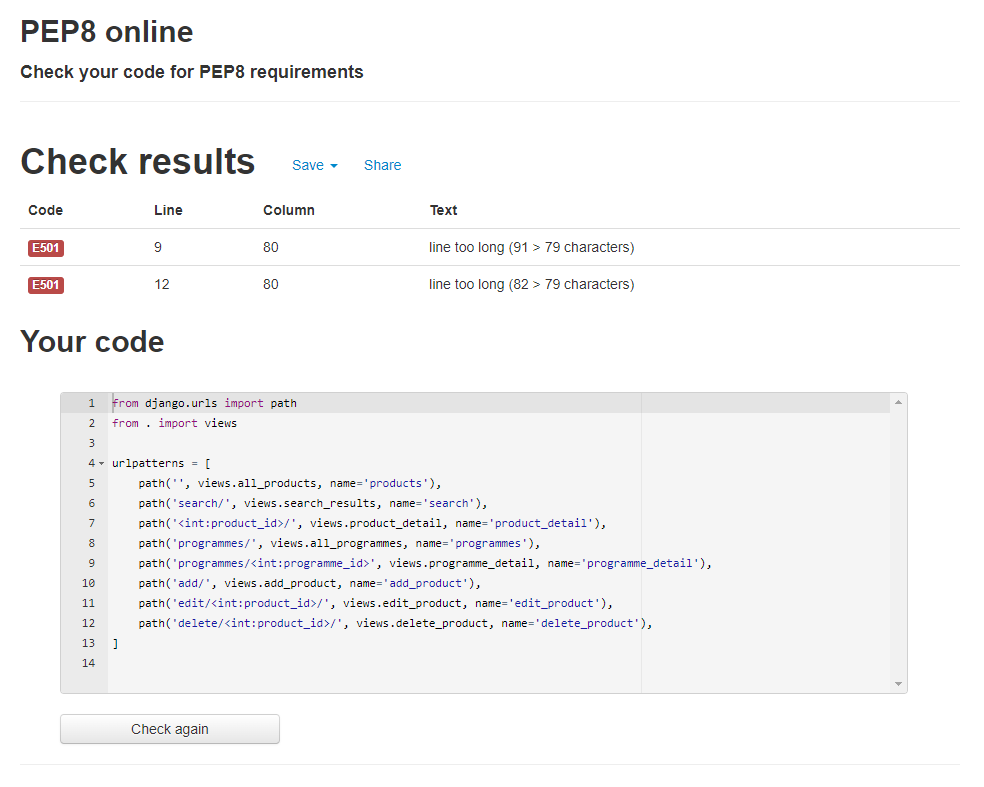
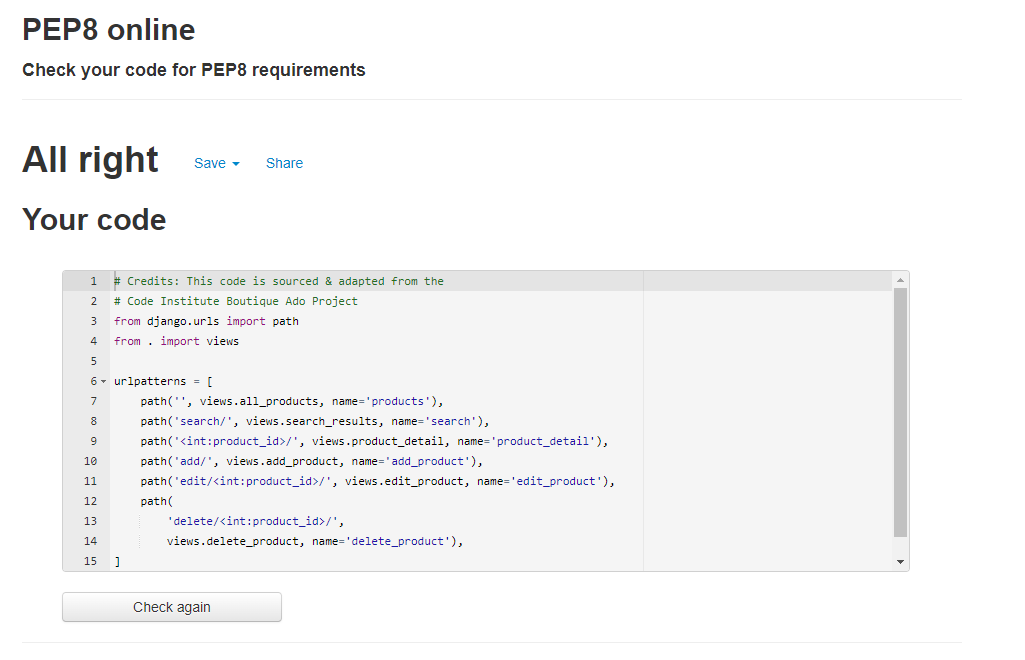
Add PEP8 screenshots to Products application

diff --git a/TESTING.md b/TESTING.md
@@ -286,11 +286,11 @@ No. |Python File | PEP8 Status | Screenshot
 ------------- |------------- | ------------- | ------------ 
 1 | [admin.py](products/admin.py) | No issues | ![link](readme/testing/pep8/products-admin.png)
 2 | [apps.py](products/apps.py) | No issues | ![link](readme/testing/pep8/products-apps.png)
-3 | [forms.py](products/forms.py) | Line Length too long x1 | ![link](readme/testing/pep8/products-forms.png)
-4 | [models.py](products/models.py) | Line Length too long x3 | ![link](readme/testing/pep8/products-models.png)
-5 | [urls.py](products/urls.py) | Line Length too long x2 | ![link](readme/testing/pep8/products-urls.png)
-6 | [views.py](products/views.py) | Line Length too long x7 | ![link](readme/testing/pep8/products-views.png)
-7 | [widgets.py](products/widgets.py) | Line Length too long x1 | ![link](readme/testing/pep8/products-widgets.png)
+3 | [forms.py](products/forms.py) | No issues | ![link](readme/testing/pep8/products-forms.png)
+4 | [models.py](products/models.py) | No issues | ![link](readme/testing/pep8/products-models.png)
+5 | [urls.py](products/urls.py) | No issues | ![link](readme/testing/pep8/products-urls.png)
+6 | [views.py](products/views.py) | No issues | ![link](readme/testing/pep8/products-views.png)
+7 | [widgets.py](products/widgets.py) | No issues | ![link](readme/testing/pep8/products-widgets.png)
 
 #### **(i) Profiles Application:** 
 
